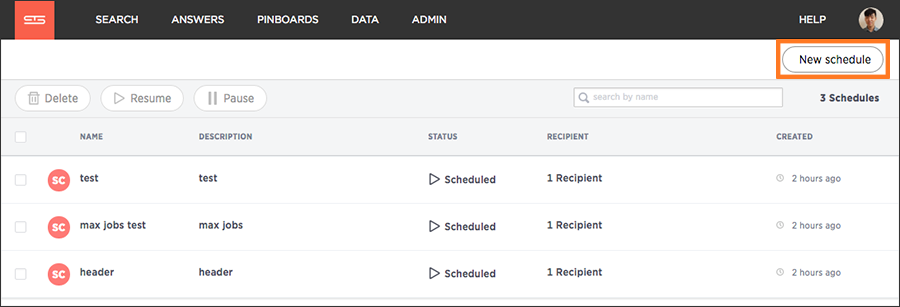
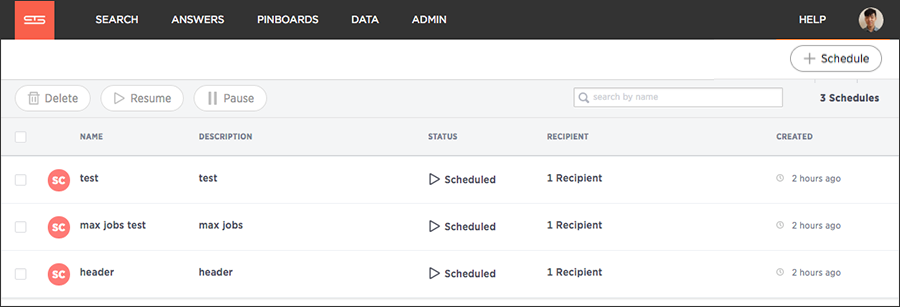
SCAL-22431 Adding in new schedule information

Changed region(s): [[0.84, 0.1173, 0.9956, 0.2638]]

diff --git a/_admin/manage-jobs/schedule-a-pinboard-job.md b/_admin/manage-jobs/schedule-a-pinboard-job.md
@@ -7,7 +7,10 @@ summary: "You can schedule a pinboard job for any pinboard by using the Add a sc
 sidebar: mydoc_sidebar
 permalink: /:collection/:path.html
 ---
-You can add multiple schedules with different configurations for a single pinboard. However, each job is limited to one pinboard schedule. In order to add a schedule, you must have administrator or can schedule pinboard privilege, and at least edit-only and view-only access to the pinboard.
+You can add multiple schedules with different configurations for a single
+pinboard. However, each job is limited to one pinboard schedule. To add
+a schedule, you must have administrator or can schedule pinboard privilege, and
+at least edit-only and view-only access to the pinboard.
 
 To schedule a pinboard:
 
@@ -21,26 +24,45 @@ To schedule a pinboard:
 
      ![]({{ site.baseurl }}/images/view_schedules.png "View pinboard schedules")
 
-5. Click **New schedule** to add a new pinboard schedule.
+5. Click **+ Schedule** to add a new schedule.
 
      ![]({{ site.baseurl }}/images/new_pinboard_schedule.png "Add a new pinboard schedule")
 
-6. On the Add a schedule prompt page, set the times you would like to schedule the pinboard for.
+     The system displays the **Add a schedule for _PINBORD_** page. On this page you configure both the schedule
 
-     ![]({{ site.baseurl }}/images/scheduled_pinboards_1.png "Set the pinboard schedule")
+6. Set the values for your schedule.
 
-    Scheduled pinboards can be set to repeat every n minutes, hourly, daily, weekly, or monthly. For some of these, you can also choose specific times of the day or days of the week. Make sure to note the Server time zone which is the timezone which will be used.
+    ![]({{ site.baseurl }}/images/scheduled_pinboards_1.png "Set the pinboard schedule")
 
-7. Enter the name and description of your schedule. Then select whether you'd like to send the pinboard as CSV or PDF attachments.
+    <table>
+     <tr>
+       <th>Field</th>
+       <th>Description</th>
+     </tr>
+     <tr>
+       <th>Repeats</th>
+       <td>You can rebuild a pinboard every <i>n</i> minutes, hourly, daily, weekly, or monthly. For some of these, you can also choose specific times of the day or days of the week. Make sure to note the <strong>Server time zone</strong> which is the timezone which will be used.</td>
+     </tr>
+     <tr>
+       <th>Name</th>
+       <td>Provide a short name for this schedule, <code>Monthly Report Source</code> is an example of a good name.</td>
+     </tr>
+     <tr>
+       <th>Description</th>
+       <td>Enter a description to remind yourself and to inform others. For example, if this is an important schedule for a meeting or a report, you should mention that.</td>
+     </tr>
+     <tr>
+       <th>Type</th>
+       <td>CSV files provide all data for tables, with one attachment per table. Use CSV files to perform further analysis offline. PDF files show all visualizations in the pinboard. Each chart takes up a whole page in the file, while only the first 100 rows of a table are included. Use PDF files to skim the data.</td>
+     </tr>
+     <tr>
+       <th>Gating condition</th>
+       <td>Write a statement that returns a boolean value. For example, <code>sum (revenue) > 100</code> is a valid condition but <code>is_weekend (commit_date)</code> is not. You can use any valid formula in your statement. At the scheduled time, ThoughtSpot checks the gating condition, and, if the condition returns true, processes the pinboard. For a list of valid formulas, see the <a href="/reference/formula-reference.html">Formula Reference</a>.</td>
+     </tr>
+     <tr>
+       <th>Recipients</th>
+       <td>You are limited to 1000 recipients per job. You can add <b>Users or groups</b> to enter ThoughtSpot users or groups. Use <b>Emails</b> to add recipients that are not ThoughtSpot users. Any users your Thoughtspot admin must have set your whitelist domains. Contact ThoughtSpot Support to set your whitelist domains.</td>
+     </tr>
+   </table>
 
-     ![]({{ site.baseurl }}/images/scheduled_pinboards_2.png "Set the pinboard type")
-
-    CSV files provide all data for tables, with one attachment per table. Use CSV files to perform further analysis offline. PDF files show all visualizations in the pinboard. Each chart takes up a whole page in the file, while only the first 100 rows of a table are included. Use PDF files to skim the data.
-
-8. Add recipients by entering ThoughtSpot users or groups. Suggestions are shown as you type. Click **Add** to add the selected users or groups. You can also add recipients that are not ThoughtSpot users by entering their email addresses. To do so, you must first set the whitelist domains. Contact ThoughtSpot Support to set your whitelist domains.
-
-     ![]({{ site.baseurl }}/images/scheduled_pinboards_3.png "Set the pinboard recipients")
-
-    You are limited to 1000 recipients per job.
-
-9. Click **Schedule** to save your scheduled pinboard.
+7. Click **Schedule** to save your schedule configuration.
